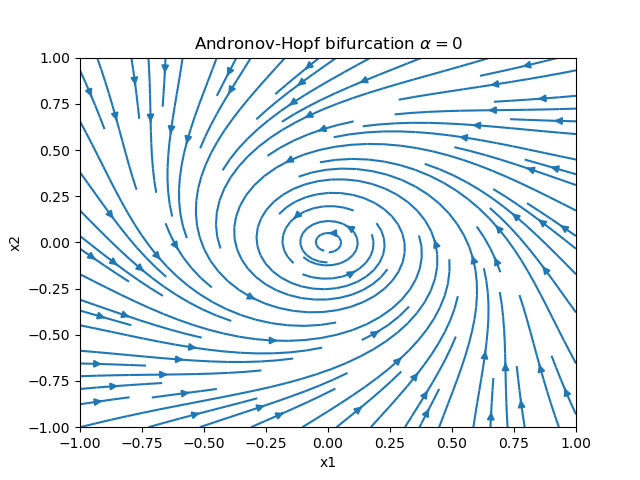
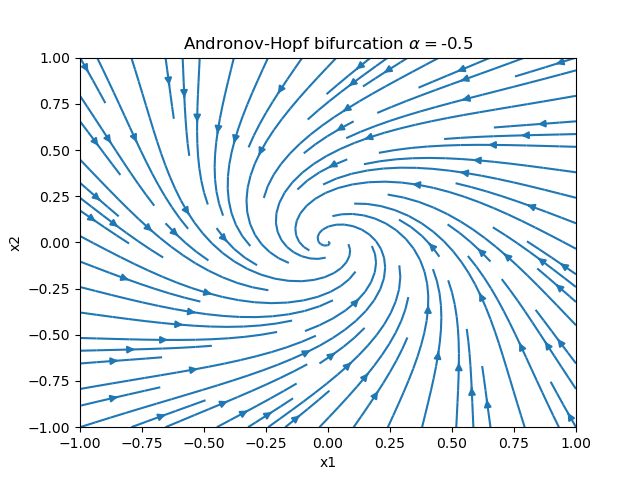
update task1-3

Changed region(s): [[0.125, 0.0625, 0.9062, 0.9062], [0.125, 0.875, 0.1562, 0.9062]]

diff --git a/source code/task2.py b/source code/task2.py
@@ -44,7 +44,7 @@ plt.title(r'$ \dot{x} = \alpha - x^2$' )
 plt.show()
 
 # dx = a - 2x^2 - 3
-a_steady, a_unsteady, root_steady, root_unsteady = drawDiagram(-1, 3, -2, 0, -3)
+a_steady, a_unsteady, root_steady, root_unsteady = drawDiagram(-3, 6, -2, 0, -3)
 plt.plot(a_steady,root_steady[:,0],label = "steady state", color = 'b')
 plt.plot(a_steady,root_steady[:,1], color = 'b')
 plt.plot(a_unsteady,root_unsteady[:,0],color = 'r',label = "no steady state", linestyle="--")
@@ -55,6 +55,22 @@ plt.legend()
 plt.title(r'Bifurcation diagramm, $ \dot{x} = \alpha - 2x^2 -3$')
 plt.show()
 
+
+# alpha = 1
+X = np.linspace(-10,10,100)
+fig = plt.figure()
+gs = gridspec.GridSpec(nrows=1, ncols=2)
+
+ax1 = fig.add_subplot(gs[0,0])
+Y1 = -X**2 + 1
+ax1.plot(Y1,X)
+ax1.set_title(r'$ \dot{x} = \alpha - x^2$, $\alpha$ = 1')
+
+ax2 = fig.add_subplot(gs[0,1])
+Y2 = -2 * X**2 - 2
+ax2.plot(Y2,X)
+ax2.set_title(r'$ \dot{x} = \alpha - 2x^2-3$, $\alpha$ = 1')
+plt.show()
 
 # alpha = -1
 X = np.linspace(-10,10,100)

diff --git a/source code/task1.py b/source code/task1.py
@@ -4,10 +4,13 @@ import math
 
 def drawPhase(alpha, x1, x2):
     X1, X2 = np.meshgrid(x1, x2)
-    dx1 = alpha * X1 + alpha *X2
-    dx2 = -0.25*X1
-    l1 = (alpha + math.sqrt(alpha**2-2*alpha)) / 2
-    l2 = (alpha - math.sqrt(alpha**2-2*alpha)) / 2
+    dx1 = (alpha**2)*X1 + (2*alpha)*X2
+    dx2 = (-alpha**2)*X1 + (-alpha)*X2
+    coefficients = [1, -alpha**2+alpha, alpha**3]
+    roots = np.roots(coefficients)
+    roots = roots.tolist()
+    l1 = roots[0]
+    l2 = roots[1]
     plt.figure()
     a1 = plt.subplot()
     a1.streamplot(X1, X2, dx1, dx2)
@@ -19,9 +22,12 @@ x1 = np.arange(-1, 1.1, 0.1)
 x2 = np.arange(-1, 1.1, 0.1)
 
 # (n+, n-) = (1, 1)
-drawPhase(-0.5, x1, x2)
+drawPhase(-1, x1, x2)
 
 # (n+, n-) = (2, 0)
+drawPhase(6, x1, x2)
 drawPhase(2, x1, x2)
 
-# no (n+, n-) = (0, 2), will explain in report
+# (n+, n-) = (0, 2)
+drawPhase(0.1, x1, x2)
+drawPhase(0.6, x1, x2)
